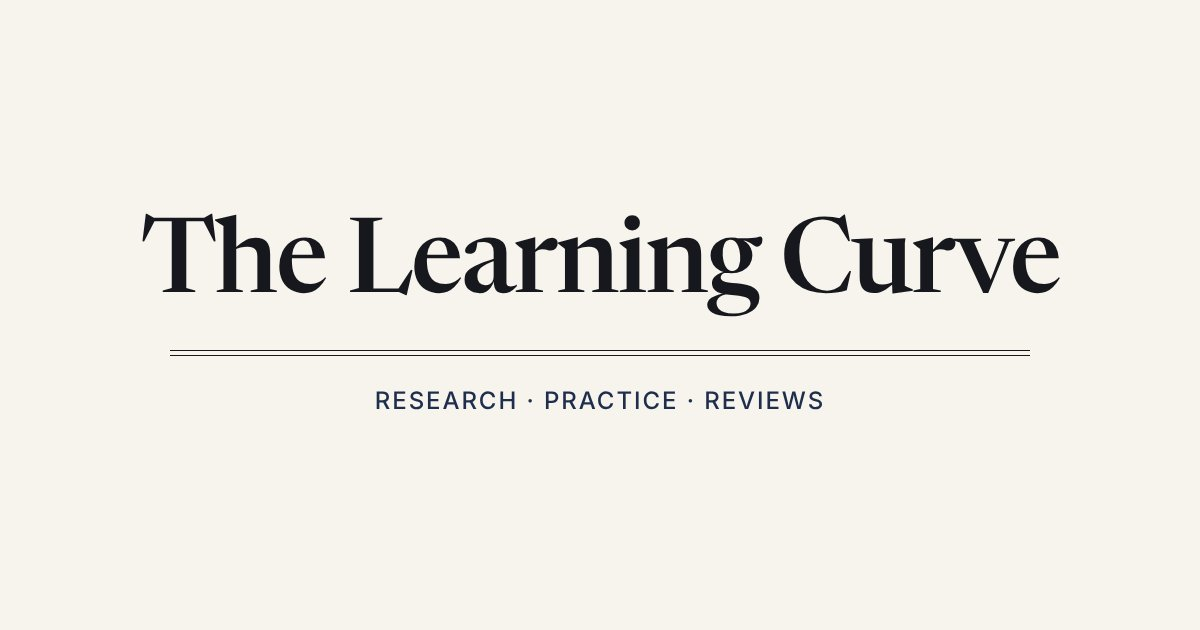
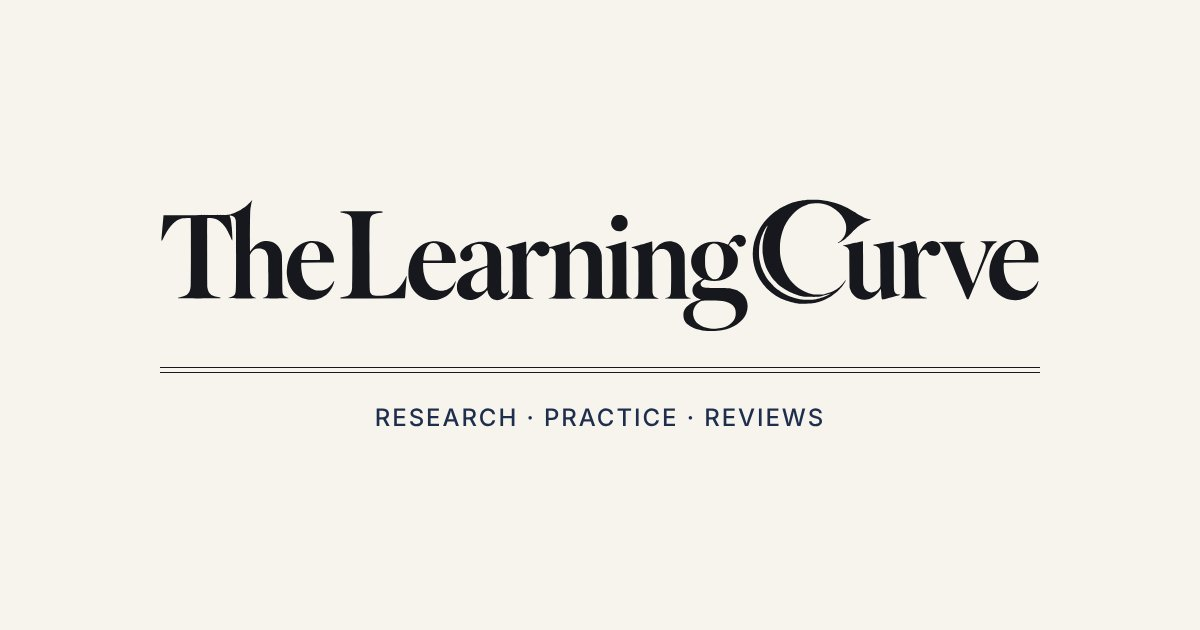
Use Jim's wordmark in the masthead, sticky bar and footer
Traces the supplied logo to an inline SVG that takes the text colour, so it works in
light and dark themes. Masthead logo is about 15% narrower than the old type wordmark
(620px wide on desktop, 80% of the screen on phones). Default share image updated.

Claude-Session: https://claude.ai/code/session_01HGUnVzJNxASkGseeibcmxi

Changed region(s): [[0.1233, 0.3016, 0.8942, 0.6937]]

diff --git a/src/styles/global.css b/src/styles/global.css
@@ -107,15 +107,10 @@ h1, h2, h3, h4 { font-family: var(--serif); font-weight: 560; line-height: 1.12;
   padding: 14px 0 0;
 }
 .masthead-wordmark {
-  display: block; text-align: center; text-decoration: none; color: var(--ink);
-  font-family: var(--serif);
-  font-size: clamp(2.4rem, 7.5vw, 5.2rem);
-  font-weight: 520;
-  letter-spacing: -0.025em;
-  line-height: 1;
-  padding: 20px 0 18px;
-  font-variation-settings: 'opsz' 72;
+  display: block; width: min(620px, 80vw); margin: 0 auto; padding: 22px 0 18px;
+  color: var(--ink); line-height: 0;
 }
+.masthead-wordmark svg { display: block; width: 100%; height: auto; }
 .masthead-rules { border-top: 1px solid var(--rule-strong); border-bottom: 1px solid var(--rule-strong); height: 4px; }
 .masthead-nav { display: flex; align-items: center; justify-content: space-between; gap: 12px; padding: 10px 0; }
 .nav-links { display: flex; gap: 28px; justify-content: center; flex: 1; overflow-x: auto; scrollbar-width: none; }
@@ -152,7 +147,8 @@ h1, h2, h3, h4 { font-family: var(--serif); font-weight: 560; line-height: 1.12;
 }
 .compact-bar.is-shown { transform: none; }
 .compact-inner { display: flex; align-items: center; gap: 24px; height: 52px; }
-.compact-wordmark { font: 560 20px/1 var(--serif); letter-spacing: -0.015em; text-decoration: none; color: var(--ink); white-space: nowrap; }
+.compact-wordmark { display: block; color: var(--ink); line-height: 0; flex: none; }
+.compact-wordmark svg { height: 22px; width: auto; display: block; }
 .compact-inner .nav-links { justify-content: flex-start; gap: 22px; }
 @media (prefers-reduced-motion: reduce) { .compact-bar { transition: none; } }
 
@@ -169,7 +165,8 @@ h1, h2, h3, h4 { font-family: var(--serif); font-weight: 560; line-height: 1.12;
 
 .site-footer { margin-top: 96px; border-top: 1px solid var(--rule-strong); padding: 40px 0 56px; }
 .footer-grid { display: grid; grid-template-columns: 2fr 1fr 1fr; gap: var(--gutter); }
-.footer-name { font: 560 26px/1.1 var(--serif); letter-spacing: -0.015em; margin-bottom: 10px; }
+.footer-name { width: 220px; margin-bottom: 14px; color: var(--ink); line-height: 0; }
+.footer-name svg { width: 100%; height: auto; display: block; }
 .footer-grid p { font: 400 14px/1.55 var(--sans); color: var(--muted); max-width: 420px; margin: 0 0 8px; }
 .footer-grid ul { list-style: none; margin: 0; padding: 0; font: 400 14px/2 var(--sans); }
 .footer-grid a { color: var(--ink); text-decoration: none; }

diff --git a/brand/README.md b/brand/README.md
@@ -2,6 +2,8 @@
 
 | File | What it is | Status |
 |---|---|---|
+| `logo-wordmark-original.png` | Jim's wordmark as supplied | Added |
+| `logo-wordmark.svg` | The wordmark traced to a vector; a copy in `src/assets/` is used in the masthead, sticky bar and footer, and takes the text colour in both themes | Added |
 | `documentary-reference.webp` | Style reference for documentary heroes: candid, window-lit, film grain, muted warm colour | Added (Jim's pick from the style tests) |
 | `references/` | The other documentary tests Jim approved, kept for comparison | Added |
 | `risograph-reference.webp` | Style reference for risograph heroes: navy and ochre on off-white, grain, misregistration | **Still needed** |
